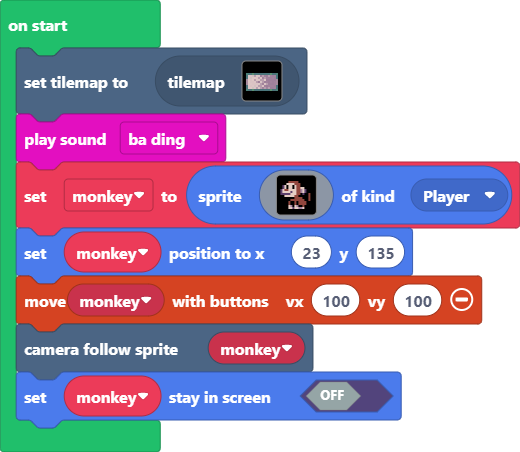
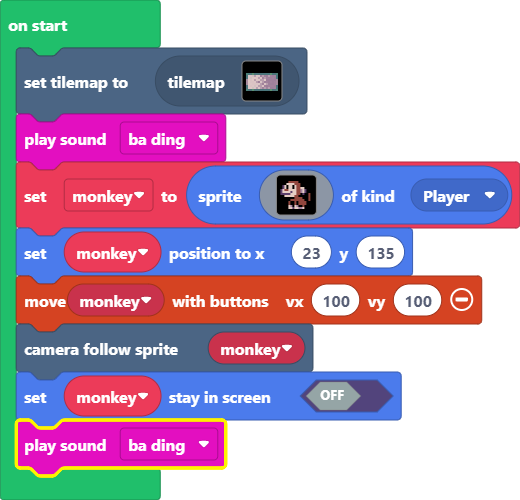
Update main.blocks, main.ts

diff --git a/main.ts b/main.ts
@@ -22,3 +22,4 @@ monkey.setPosition(23, 135)
 controller.moveSprite(monkey, 100, 100)
 scene.cameraFollowSprite(monkey)
 monkey.setStayInScreen(false)
+music.baDing.play()
